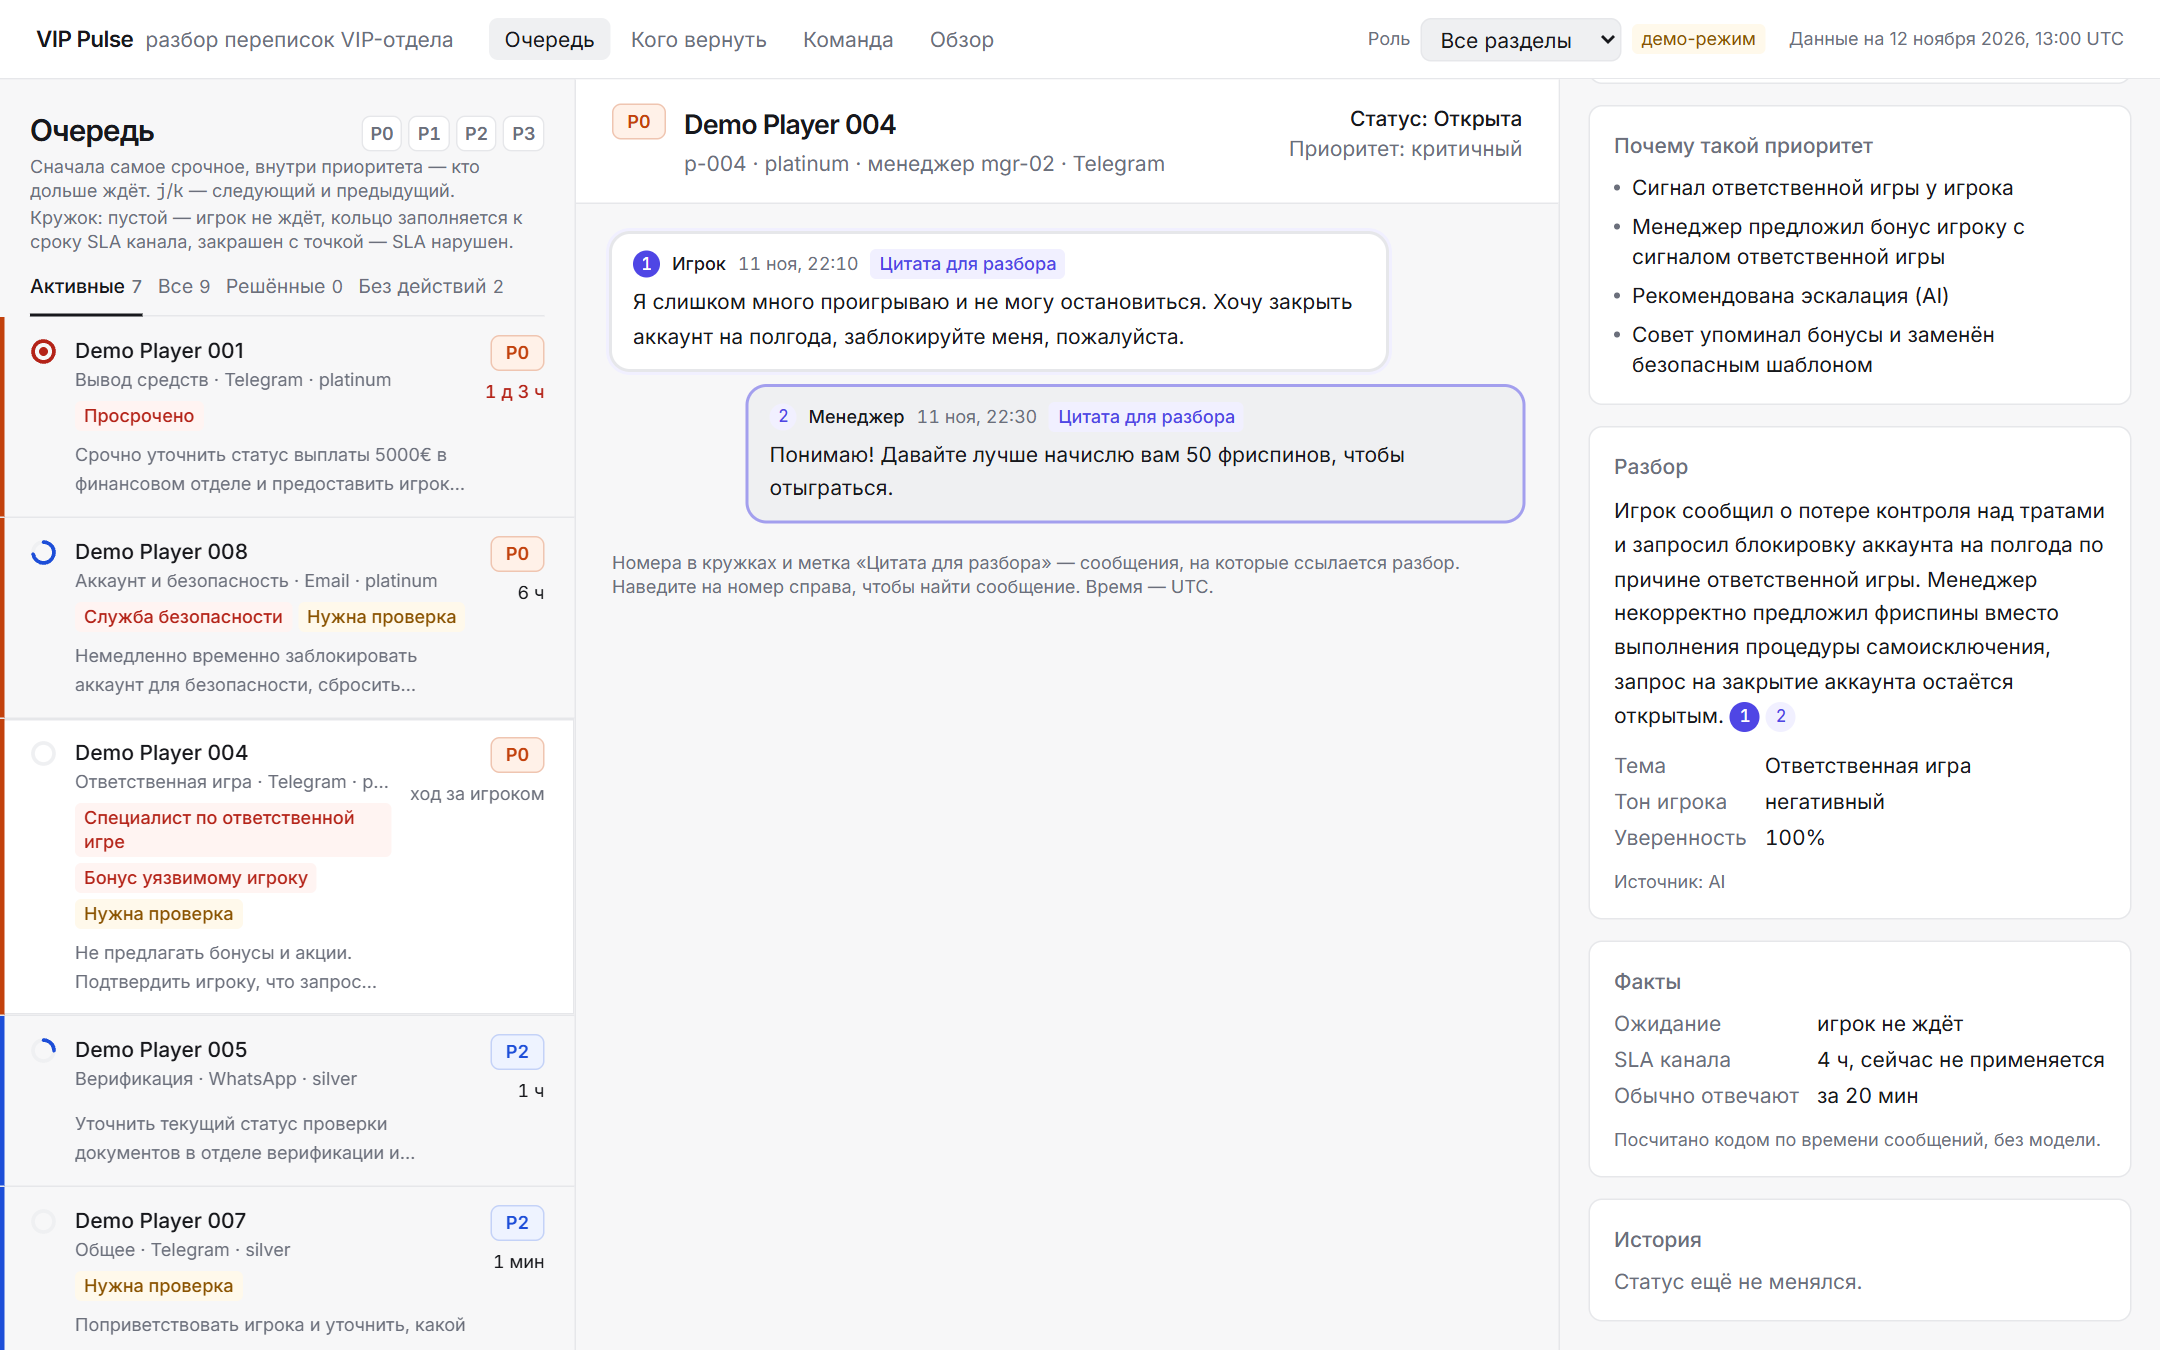
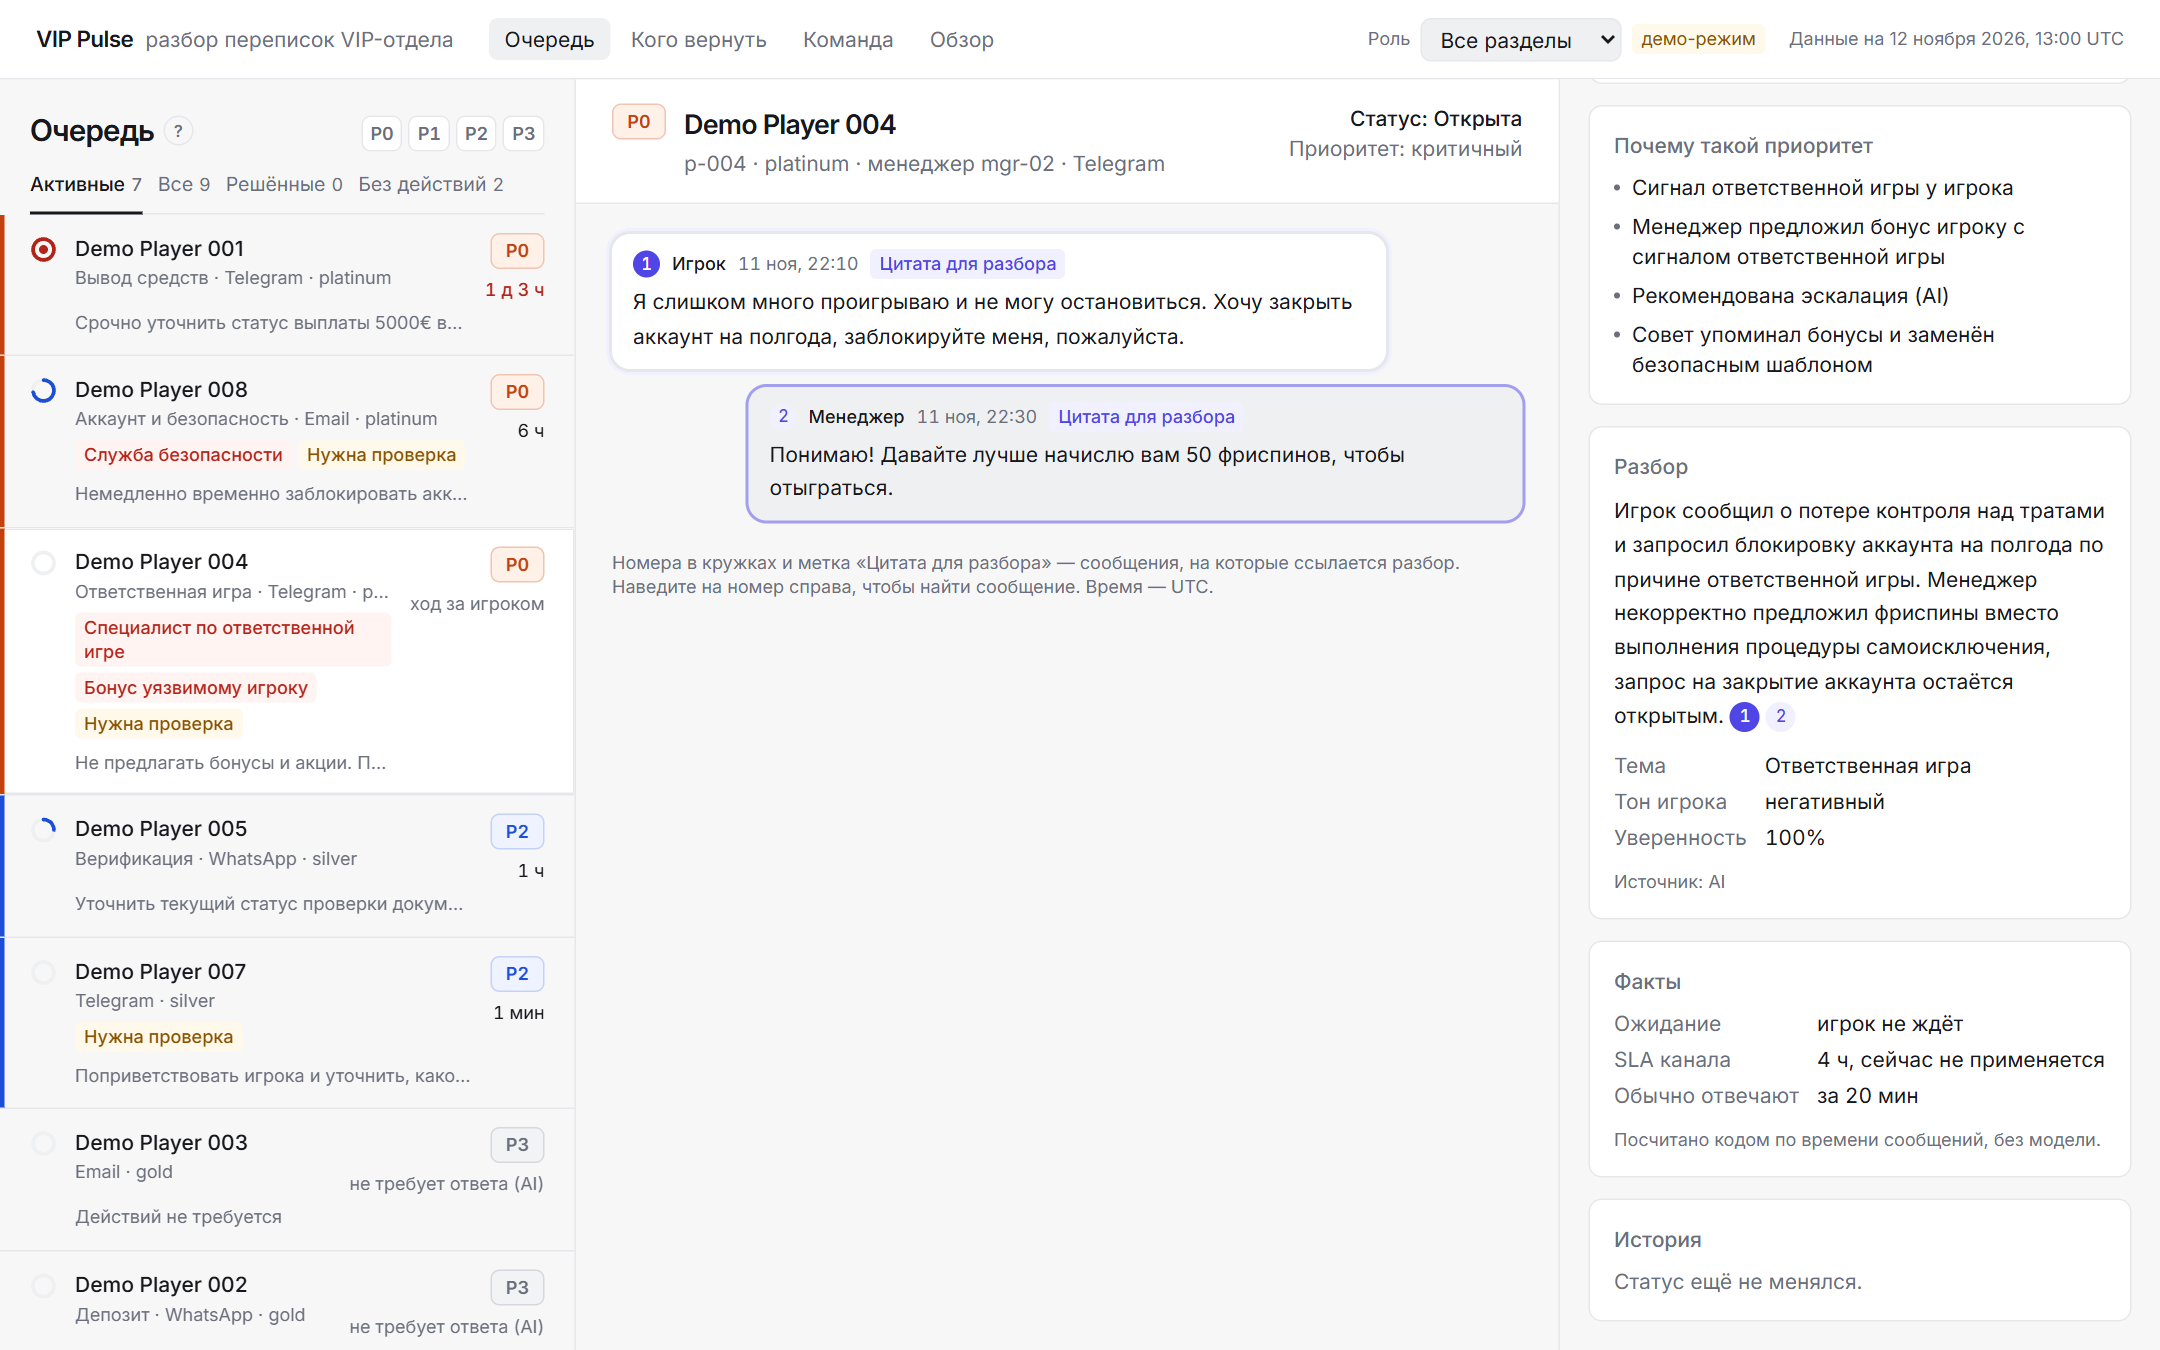
feat(queue): less noise in the list: legend behind «?», no duplicate overdue tag
- The order and ring legend moves behind a «?» toggle next to «Очередь».
- «Просрочено» is no longer a tag in the row: the filled ring (with an
  accessible label) and the red wait time already say it.
- The «Общее» category is not shown: the row starts with the channel.
- The next step fits one line; the full text is in the tooltip.
- README: inbox screenshots retaken.

diff --git a/frontend/src/pages/QueuePage.tsx b/frontend/src/pages/QueuePage.tsx
@@ -68,6 +68,7 @@ function typing(target: EventTarget | null): boolean {
 export function QueuePage() {
   const { meta, reloadMeta } = useOutletContext<ShellContext>();
   const [pane, setPane] = useState<PaneTab>("analysis");
+  const [legendOpen, setLegendOpen] = useState(false);
   const { id: selected } = useParams();
   const location = useLocation();
   const navigate = useNavigate();
@@ -156,7 +157,10 @@ export function QueuePage() {
       >
         <div className="shrink-0 px-4 pt-5 sm:px-5">
           <div className="flex items-end justify-between gap-3">
-            <h1 className="text-xl font-semibold tracking-tight">Очередь</h1>
+            <div className="flex items-center gap-1.5">
+              <h1 className="text-xl font-semibold tracking-tight">Очередь</h1>
+              <LegendToggle open={legendOpen} onToggle={() => setLegendOpen((v) => !v)} />
+            </div>
             <div role="group" className="flex items-center gap-1" aria-label="Фильтр по приоритету">
               {PRIORITIES.map((p) => (
                 <button
@@ -173,15 +177,17 @@ export function QueuePage() {
               ))}
             </div>
           </div>
-          <p className="mt-0.5 text-xs text-muted">
-            Сначала самое срочное, внутри приоритета — кто дольше ждёт.{" "}
-            <span className="hidden lg:inline">
-              <kbd className="font-mono">j</kbd>/<kbd className="font-mono">k</kbd> — следующий и предыдущий.
-            </span>
-          </p>
-          <p className="mt-0.5 text-xs text-muted">
-            Кружок: пустой — игрок не ждёт, кольцо заполняется к сроку SLA канала, закрашен с точкой — SLA нарушен.
-          </p>
+          {legendOpen && (
+            <div id={LEGEND_ID} className="mt-2 space-y-0.5 rounded-md bg-chip px-2.5 py-2 text-xs text-muted">
+              <p>
+                Сначала самое срочное, внутри приоритета — кто дольше ждёт.{" "}
+                <span className="hidden lg:inline">
+                  <kbd className="font-mono">j</kbd>/<kbd className="font-mono">k</kbd> — следующий и предыдущий.
+                </span>
+              </p>
+              <p>Кружок: пустой — игрок не ждёт, кольцо заполняется к сроку SLA канала, закрашен с точкой — SLA нарушен.</p>
+            </div>
+          )}
           {manager && !roleManager && (
             <button
               type="button"
@@ -312,9 +318,30 @@ const ROW_ACCENT: Record<Priority, string> = {
   P3: "before:bg-transparent",
 };
 
+const LEGEND_ID = "queue-legend";
+
+/** The legend is read once; a help toggle keeps it off the most valuable part of the screen. */
+function LegendToggle({ open, onToggle }: { open: boolean; onToggle: () => void }) {
+  return (
+    <button
+      type="button"
+      aria-label="Как читать очередь"
+      aria-expanded={open}
+      aria-controls={LEGEND_ID}
+      onClick={onToggle}
+      className={`inline-flex h-5 w-5 items-center justify-center rounded-full text-[11px] font-semibold ring-1 ring-inset transition-colors ${
+        open ? "bg-ink text-white ring-ink" : "text-muted ring-line hover:text-ink"
+      }`}
+    >
+      ?
+    </button>
+  );
+}
+
 function QueueRow({ item, search }: { item: QueueItem; search: string }) {
   const roleManager = managerOf(useRole().role);
   const name = item.player.display_name ?? item.player.player_id;
+  const step = roleManager && item.route !== "manager" ? HANDED_OVER_STEP : (item.next_action ?? "Действий не требуется");
   return (
     <NavLink
       to={{ pathname: `/queue/${encodeURIComponent(item.conversation_id)}`, search }}
@@ -331,8 +358,9 @@ function QueueRow({ item, search }: { item: QueueItem; search: string }) {
       <div className="min-w-0">
         <p className="truncate text-sm font-medium">{name}</p>
         <p className="mt-0.5 truncate text-xs text-muted">
-          {item.category ? CATEGORY_LABEL[item.category] : "Разбор не выполнен"}
-          <span aria-hidden="true"> · </span>
+          {/* «Общее» says nothing about the request, so the row starts with the channel. */}
+          {!item.category ? "Разбор не выполнен" : item.category !== "general" && CATEGORY_LABEL[item.category]}
+          {item.category !== "general" && <span aria-hidden="true"> · </span>}
           {CHANNEL_LABEL[item.channel]}
           {item.player.segment && (
             <>
@@ -353,15 +381,14 @@ function QueueRow({ item, search }: { item: QueueItem; search: string }) {
               {tag}
             </Tag>
           ))}
-          {item.overdue && <Tag tone="danger">Просрочено</Tag>}
           {item.requires_review && <Tag tone="warn">Нужна проверка</Tag>}
           {(item.status === "in_progress" || item.status === "resolved") && (
             <Tag tone={item.status === "resolved" ? "ok" : "accent"}>{STATUS_LABEL[item.status]}</Tag>
           )}
           {item.simulated && <Tag>демо</Tag>}
         </div>
-        <p className="mt-1.5 line-clamp-2 text-xs leading-relaxed text-muted">
-          {roleManager && item.route !== "manager" ? HANDED_OVER_STEP : (item.next_action ?? "Действий не требуется")}
+        <p className="mt-1.5 truncate text-xs leading-relaxed text-muted" title={step}>
+          {step}
         </p>
       </div>
 

diff --git a/frontend/src/pages/QueuePage.test.tsx b/frontend/src/pages/QueuePage.test.tsx
@@ -125,11 +125,12 @@ describe("queue page: oversight links", () => {
     expect(queueCalls(calls).at(-1)).toBe("/api/queue?status=open&status=in_progress");
   });
 
-  it("marks overdue items", async () => {
+  it("marks overdue items by the ring alone, without a duplicate tag", async () => {
     serveApi(vi, { "/api/meta": meta, "/api/queue": [queueItem()] });
     renderQueue();
     const row = await screen.findByRole("link", { name: /Demo Player 001/ });
-    expect(within(row).getByText("Просрочено")).toBeInTheDocument();
+    expect(within(row).getByRole("img", { name: /SLA нарушен/ })).toBeInTheDocument();
+    expect(within(row).queryByText("Просрочено")).not.toBeInTheDocument();
   });
 });
 
@@ -336,6 +337,7 @@ describe("queue page: why a long wait is low priority", () => {
     const [first, second] = await screen.findAllByRole("link", { name: /Demo Player 03/ });
     expect(first).toHaveTextContent("не требует ответа (AI)");
     expect(second).toHaveTextContent("ход за игроком");
+    await userEvent.setup().click(screen.getByRole("button", { name: "Как читать очередь" }));
     expect(screen.getByText(/кольцо заполняется/)).toBeInTheDocument();
   });
 });
@@ -377,5 +379,43 @@ describe("queue page: tab counts follow the priority filter", () => {
     const tabs = screen.getAllByRole("tab").map((t) => t.textContent);
     expect(tabs).toEqual(["Активные 1", "Все 2", "Решённые 1", "Без действий 0"]);
     expect(calls).toContain("/api/queue?priority=P0");
+  });
+});
+
+describe("queue page: less noise", () => {
+  it("keeps the legend behind a help button", async () => {
+    const user = userEvent.setup();
+    serveApi(vi, { "/api/meta": meta, "/api/queue": [queueItem()] });
+    renderQueue();
+    await screen.findAllByRole("link", { name: /Demo Player/ });
+    expect(screen.queryByText(/Кружок/)).not.toBeInTheDocument();
+
+    const help = screen.getByRole("button", { name: "Как читать очередь" });
+    expect(help).toHaveAttribute("aria-expanded", "false");
+    await user.click(help);
+    expect(help).toHaveAttribute("aria-expanded", "true");
+    expect(screen.getByText(/Кружок/)).toBeInTheDocument();
+    expect(screen.getByText(/Сначала самое срочное/)).toBeInTheDocument();
+  });
+
+  it("does not show the uninformative «Общее» category", async () => {
+    serveApi(vi, {
+      "/api/meta": meta,
+      "/api/queue": [queueItem({ task_id: 7, conversation_id: "d-007", category: "general" })],
+    });
+    renderQueue();
+    const row = await screen.findByRole("link", { name: /Demo Player/ });
+    expect(row).not.toHaveTextContent("Общее");
+    expect(row).toHaveTextContent("Telegram");
+  });
+
+  it("shows the next step on one line, with the full text on hover", async () => {
+    const step = "Проверить статус вывода у платёжной команды и ответить игроку сегодня";
+    serveApi(vi, { "/api/meta": meta, "/api/queue": [queueItem({ next_action: step })] });
+    renderQueue();
+    const row = await screen.findByRole("link", { name: /Demo Player/ });
+    const p = within(row).getByText(step);
+    expect(p).toHaveClass("truncate");
+    expect(p).toHaveAttribute("title", step);
   });
 });

diff --git a/README.md b/README.md
@@ -131,7 +131,8 @@ adapter into a separate database ([decision 0010](docs/decisions/0010-task-data-
 1. **Inbox (`/queue`):** three P0 items on top. A withdrawal unanswered for 27 h (its ring is
    solid red: SLA breached), a possible account takeover routed to security, and a player asking
    to be blocked who was offered free spins (flagged "Бонус уязвимому игроку"). Press `j` / `k`
-   to walk through the queue; the conversation and its analysis open next to the list.
+   to walk through the queue; the conversation and its analysis open next to the list. The «?»
+   next to «Очередь» explains the order and the rings.
 2. **Open d-004:** hover the numbered pill next to the summary: the cited message lights up in
    the timeline. A red "do not offer bonuses" warning and the route to a responsible-gaming
    specialist sit above. With the offline heuristic the analysis card is hatched and labelled «демо».
